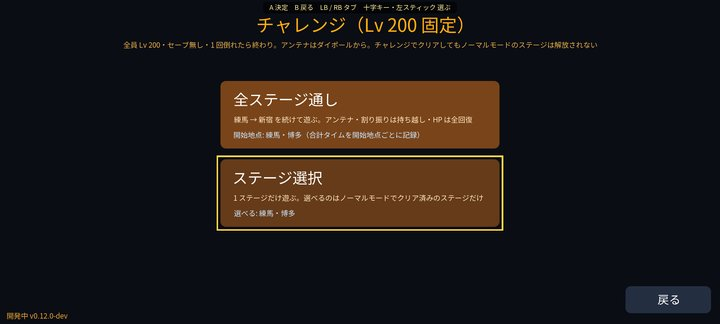
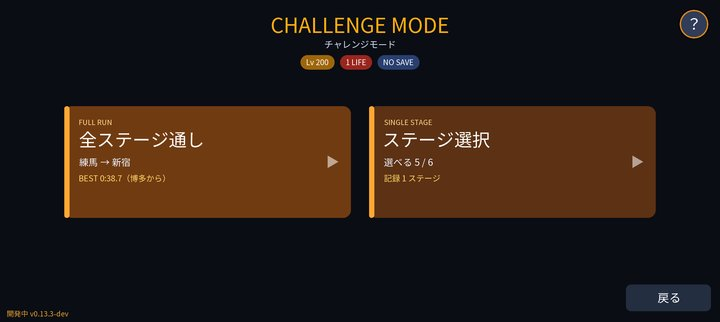
Phonetic Hound 0.13.3-dev (in development)

diff --git a/phonetic_hound/README.md b/phonetic_hound/README.md
@@ -10,13 +10,13 @@
 
 ## ダウンロード
 
-### [APK をダウンロード（v0.13.2-dev・10.9 MB）](https://github.com/kijitora-no-hito/android-apps/releases/download/phonetichound-v0.13.2-dev/phonetichound-0.13.2-dev-release.apk)
+### [APK をダウンロード（v0.13.3-dev・10.9 MB）](https://github.com/kijitora-no-hito/android-apps/releases/download/phonetichound-v0.13.3-dev/phonetichound-0.13.3-dev-release.apk)
 
 | 項目 | 内容 |
 | --- | --- |
-| バージョン | 0.13.2-dev（2026-09-28・開発中） |
-| ファイル | `phonetichound-0.13.2-dev-release.apk`（11,417,494 バイト） |
[1 lines of base64/hex data omitted]
+| バージョン | 0.13.3-dev（2026-09-28・開発中） |
+| ファイル | `phonetichound-0.13.3-dev-release.apk`（11,417,494 バイト） |
[1 lines of base64/hex data omitted]
 | 対応 Android | 7.0 以上（横画面） |
 | 価格 | 無料・広告なし・アプリ内課金なし・アカウント登録なし |
 
@@ -40,7 +40,7 @@
 - マップは歩いた場所だけが見えます。ピンも置けます。
 - 街並みは実在の地形と建物のデータから作っています。電波は建物での反射・回折まで計算しています。
 
-## この版でできること（0.13.2-dev）
+## この版でできること（0.13.3-dev）
 
 - **全 6 ステージ**を、最初から巨大基地局の停波まで遊べます。開発中の版では、どのステージも最初から選べます。
 
@@ -73,6 +73,14 @@
 版の見出しを押すと開閉します。
 
 <details open markdown="1">
+<summary><b>0.13.3-dev</b>（2026-09-28）</summary>
+
+- タイトルのボタン名を**チャレンジモード**にしました。
+- ノーマルモード・チャレンジモードの画面をゲームらしく作り直しました（大きなカードに名前と要点だけ、ルールは「Lv 200」「1 LIFE」「NO SAVE」の札）。細かい説明は右上の **？** ボタンで読めます（パッドでは △）。
+
+</details>
+
+<details markdown="1">
 <summary><b>0.13.2-dev</b>（2026-09-28）</summary>
 
 - **敵の色分け**: 各局のゾンビ（群れ・指示役）は、つながっている局の色の服と腕章。野良は色の無い灰色がかった茶色（腕章なし）。中立は薄い色＋頭上に「−」、指揮中の味方は頭上に水色のひし形。神城のロボットは目とランプが局の色。敵の HP バーの左に局の頭文字（野良は「野」）。地図に凡例も付けました。
@@ -247,6 +255,10 @@
 ## スクリーンショット
 
 <table>
+<tr>
+<td align="center"><img src="images/47.jpg" width="340" alt="ノーマルモード"><br>ノーマルモードの画面</td>
+<td align="center"><img src="images/46.jpg" width="340" alt="？の説明"><br>？ボタンで説明を表示</td>
+</tr>
 <tr>
 <td align="center"><img src="images/44.jpg" width="340" alt="地図の指示役"><br>150m 以内の指示役が地図に出る</td>
 <td align="center"><img src="images/45.jpg" width="340" alt="光柱のラベル"><br>光柱に「Alpha 設備盤」などのラベル</td>
@@ -265,7 +277,7 @@
 </tr>
 <tr>
 <td align="center"><img src="images/34.jpg" width="340" alt="成長"><br>レベルアップしてポイントを割り振る</td>
-<td align="center"><img src="images/35.jpg" width="340" alt="チャレンジの割り振り"><br>チャレンジ（Lv 200）の割り振り</td>
+<td align="center"><img src="images/35.jpg" width="340" alt="チャレンジの割り振り"><br>チャレンジモードの割り振り</td>
 </tr>
 <tr>
 <td align="center"><img src="images/36.jpg" width="340" alt="GAME OVER"><br>チャレンジは 1 回倒れたら GAME OVER</td>
